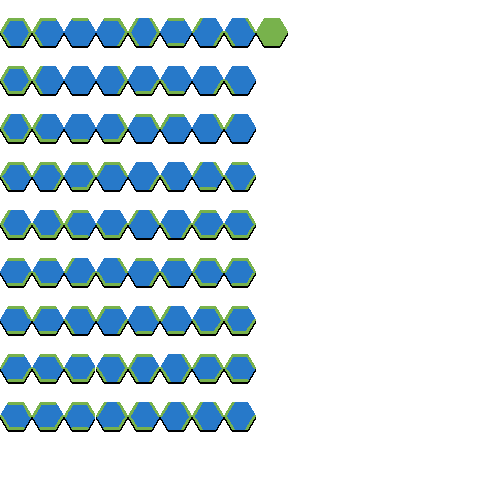
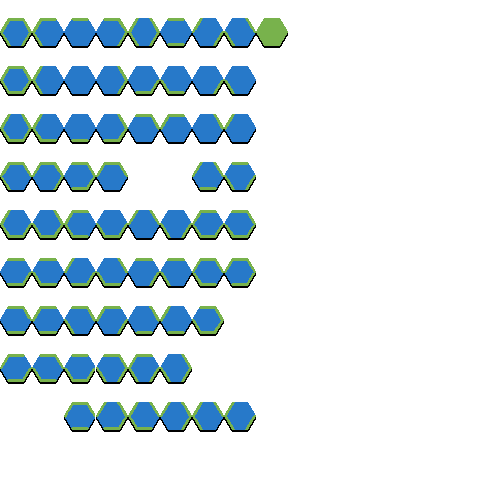
removed all duplicates from coastline tileset

Changed region(s): [[0.375, 0.625, 0.5312, 0.8125], [0.25, 0.3125, 0.4062, 0.4062], [0.0, 0.8125, 0.1562, 0.9062]]

diff --git a/src/menu/MainPage.tsx b/src/menu/MainPage.tsx
@@ -7,7 +7,7 @@ import { CircularProgress, Container } from '@material-ui/core';
 import { MapManager } from '../mapviewer/MapManager';
 
 
-const WORLD_SIZE = 50;
+const WORLD_SIZE = 100;
 
 export const MainPageLoaded: React.FC<{
   resources: PIXI.IResourceDictionary,
